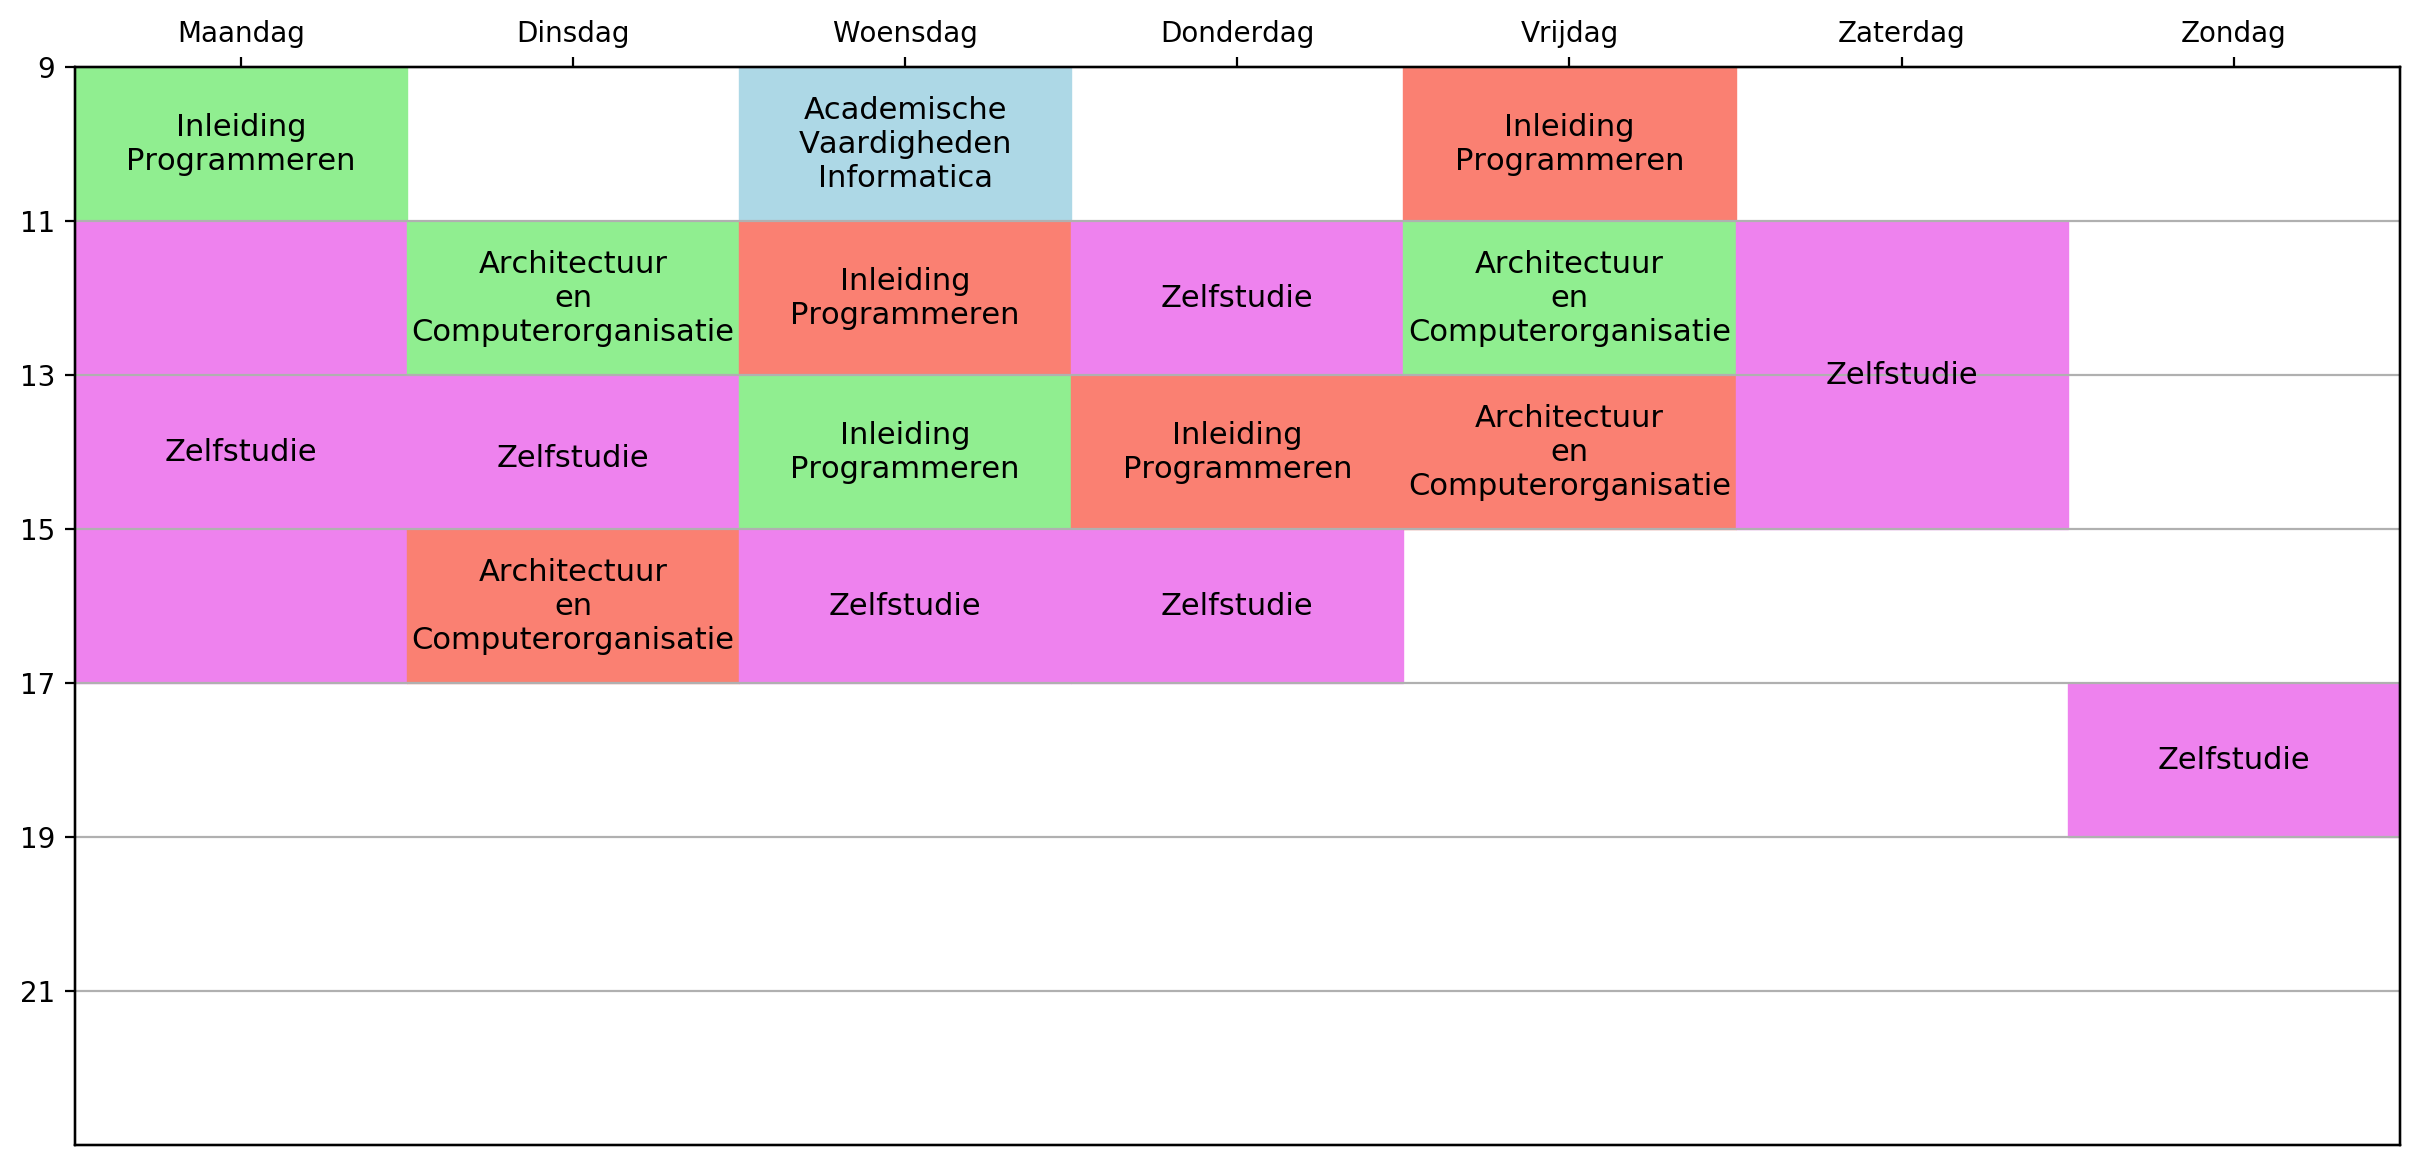
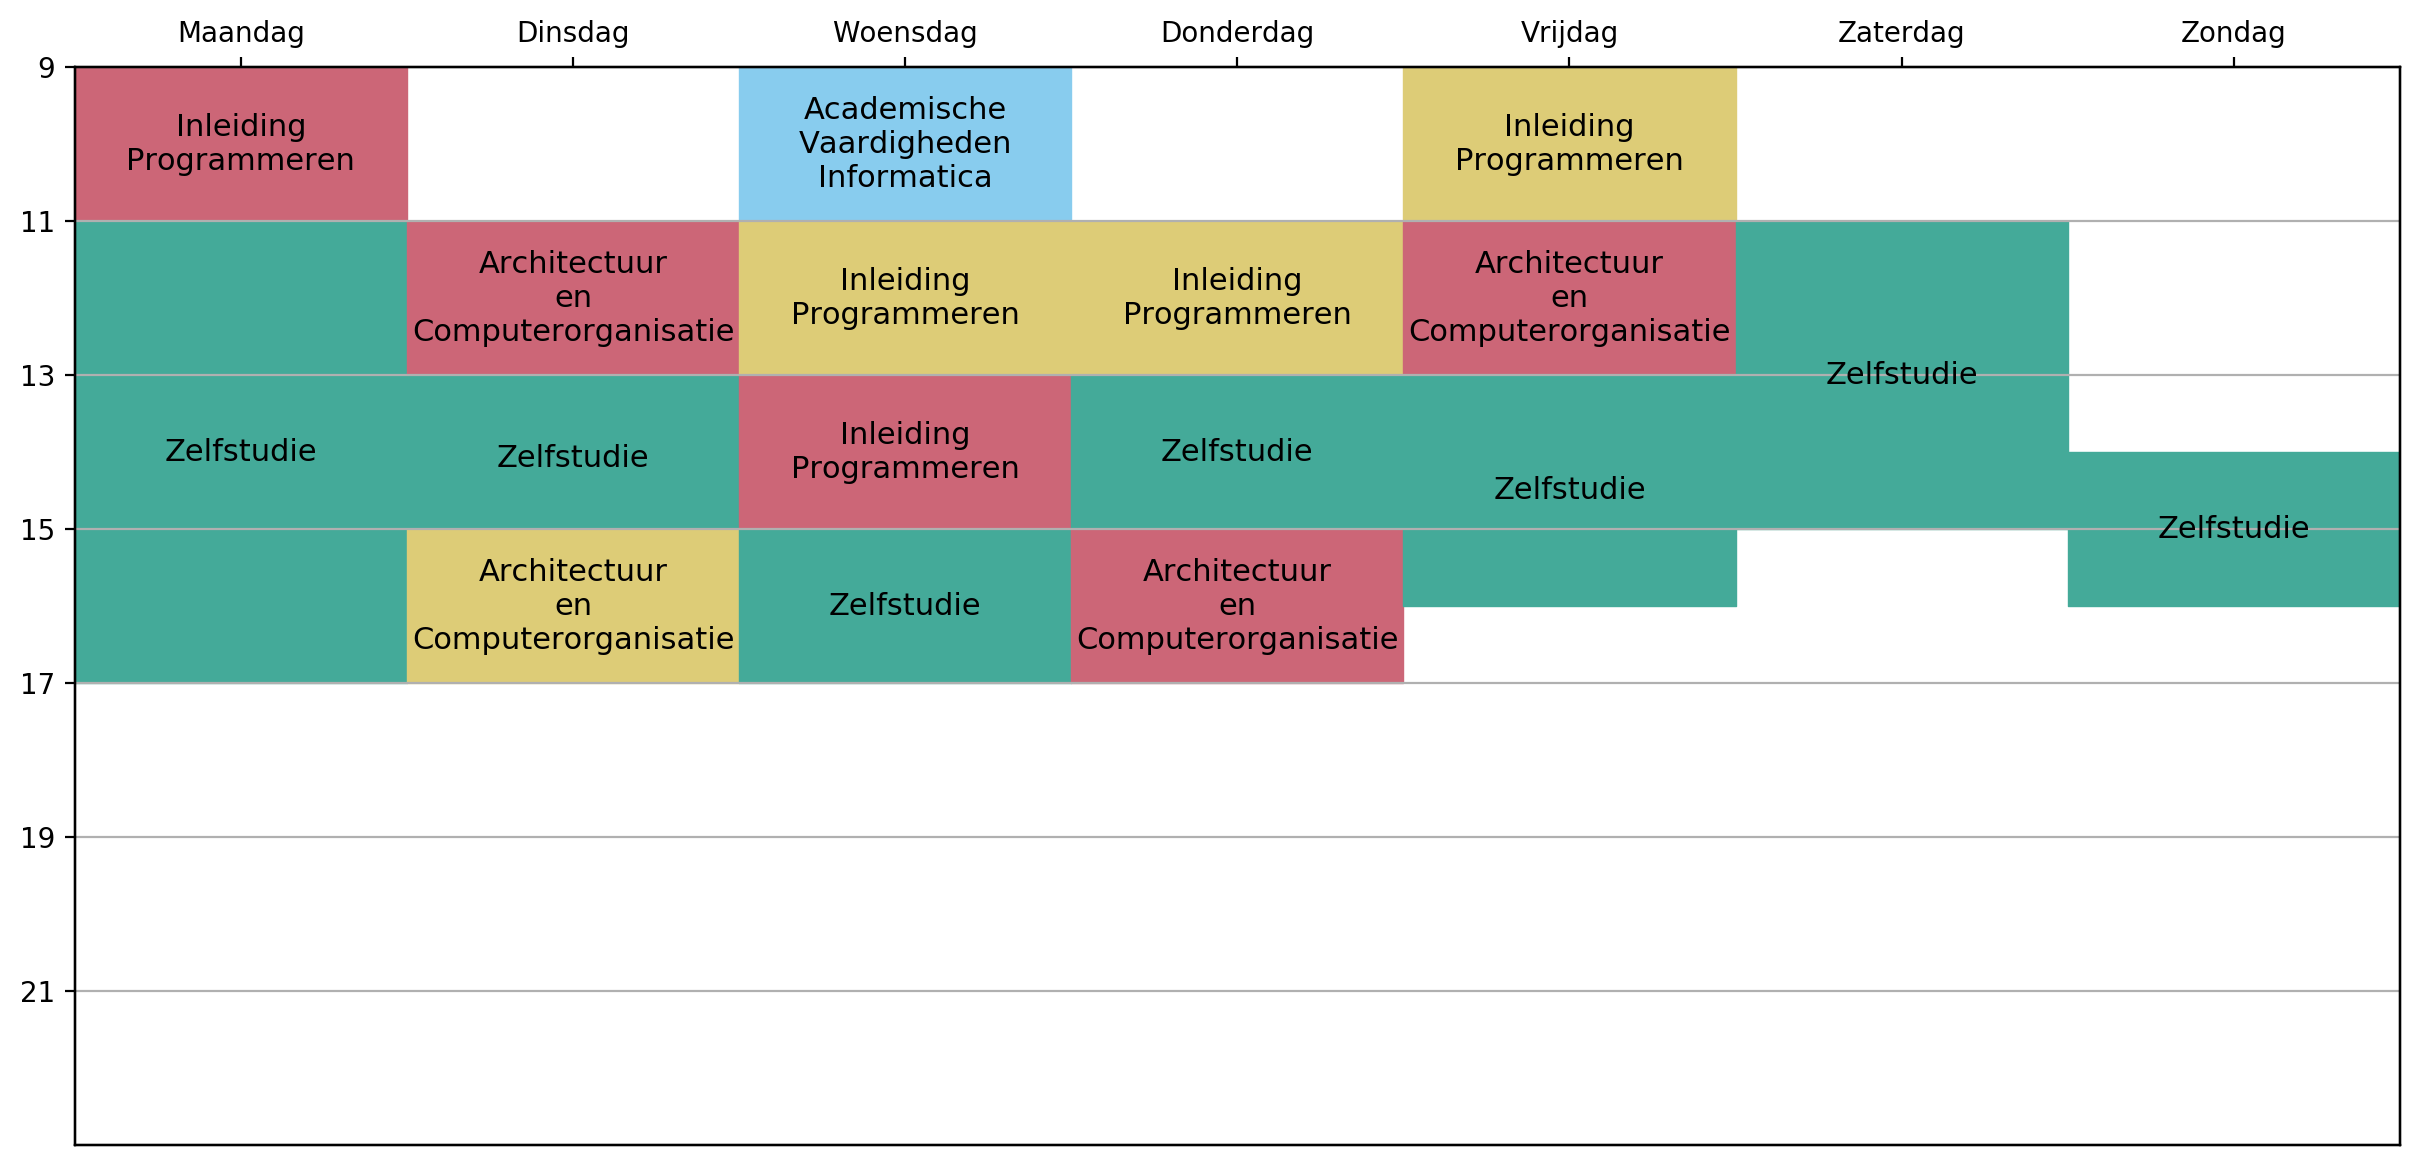
Changed color palette to colorblind-friendly colors

diff --git a/timetable.py b/timetable.py
@@ -12,7 +12,7 @@ DAYS = [
     'Maandag', 'Dinsdag', 'Woensdag', 'Donderdag', 'Vrijdag', 'Zaterdag',
     'Zondag'
 ]
-COLORS = ['lightgreen', 'salmon', 'lightblue', 'violet', 'turquoise']
+COLORS = ['#CC6677', '#DDCC77', '#88CCEE', '#44AA99', '#AD66A1']
 TYPE = ['Hoorcollege', 'Werkcollege', 'Tutoraat', 'Zelfstudie', 'Overig']
 INPUT = 'schedule.dat'
 
@@ -27,7 +27,7 @@ if __name__ == '__main__':
         lines = [l.strip() for l in f.readlines()]
 
         for line in lines:
-            if line[0] == '#':
+            if line and line[0] == '#':
                 continue
 
             data = line.split(maxsplit=5)
